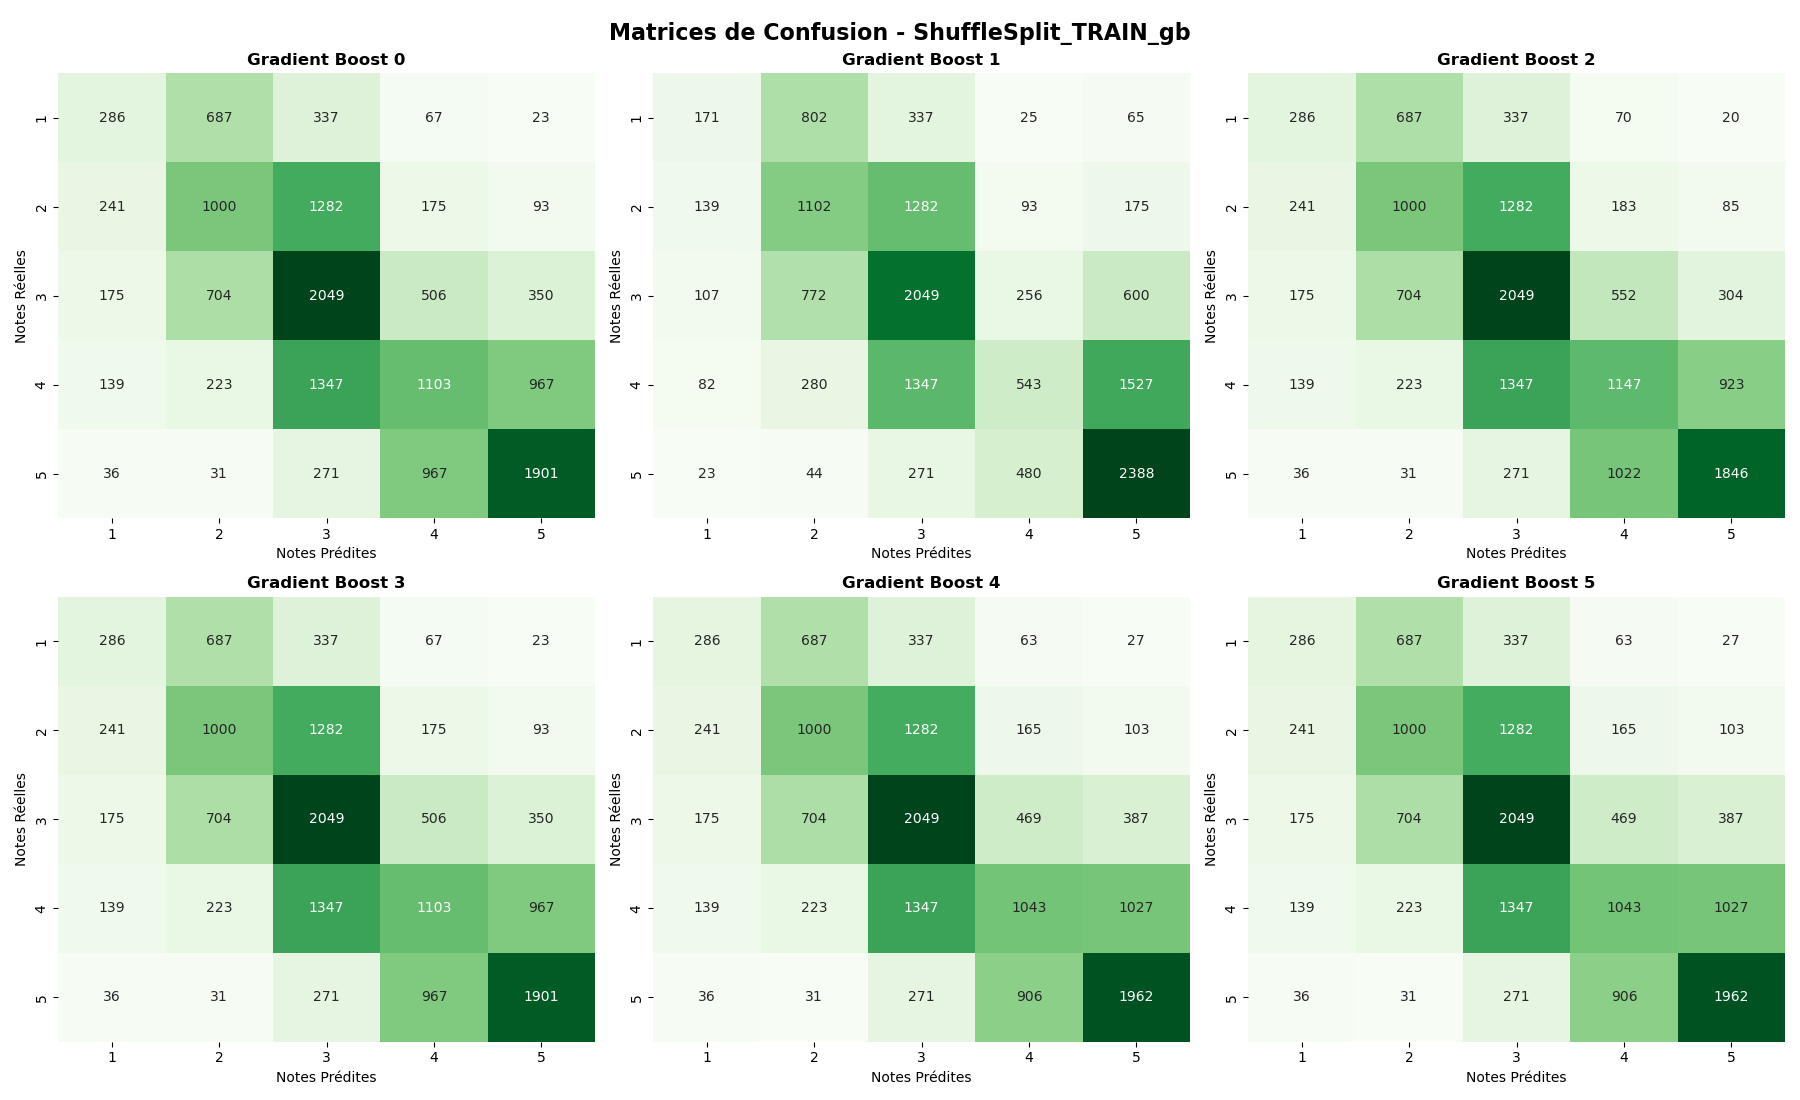
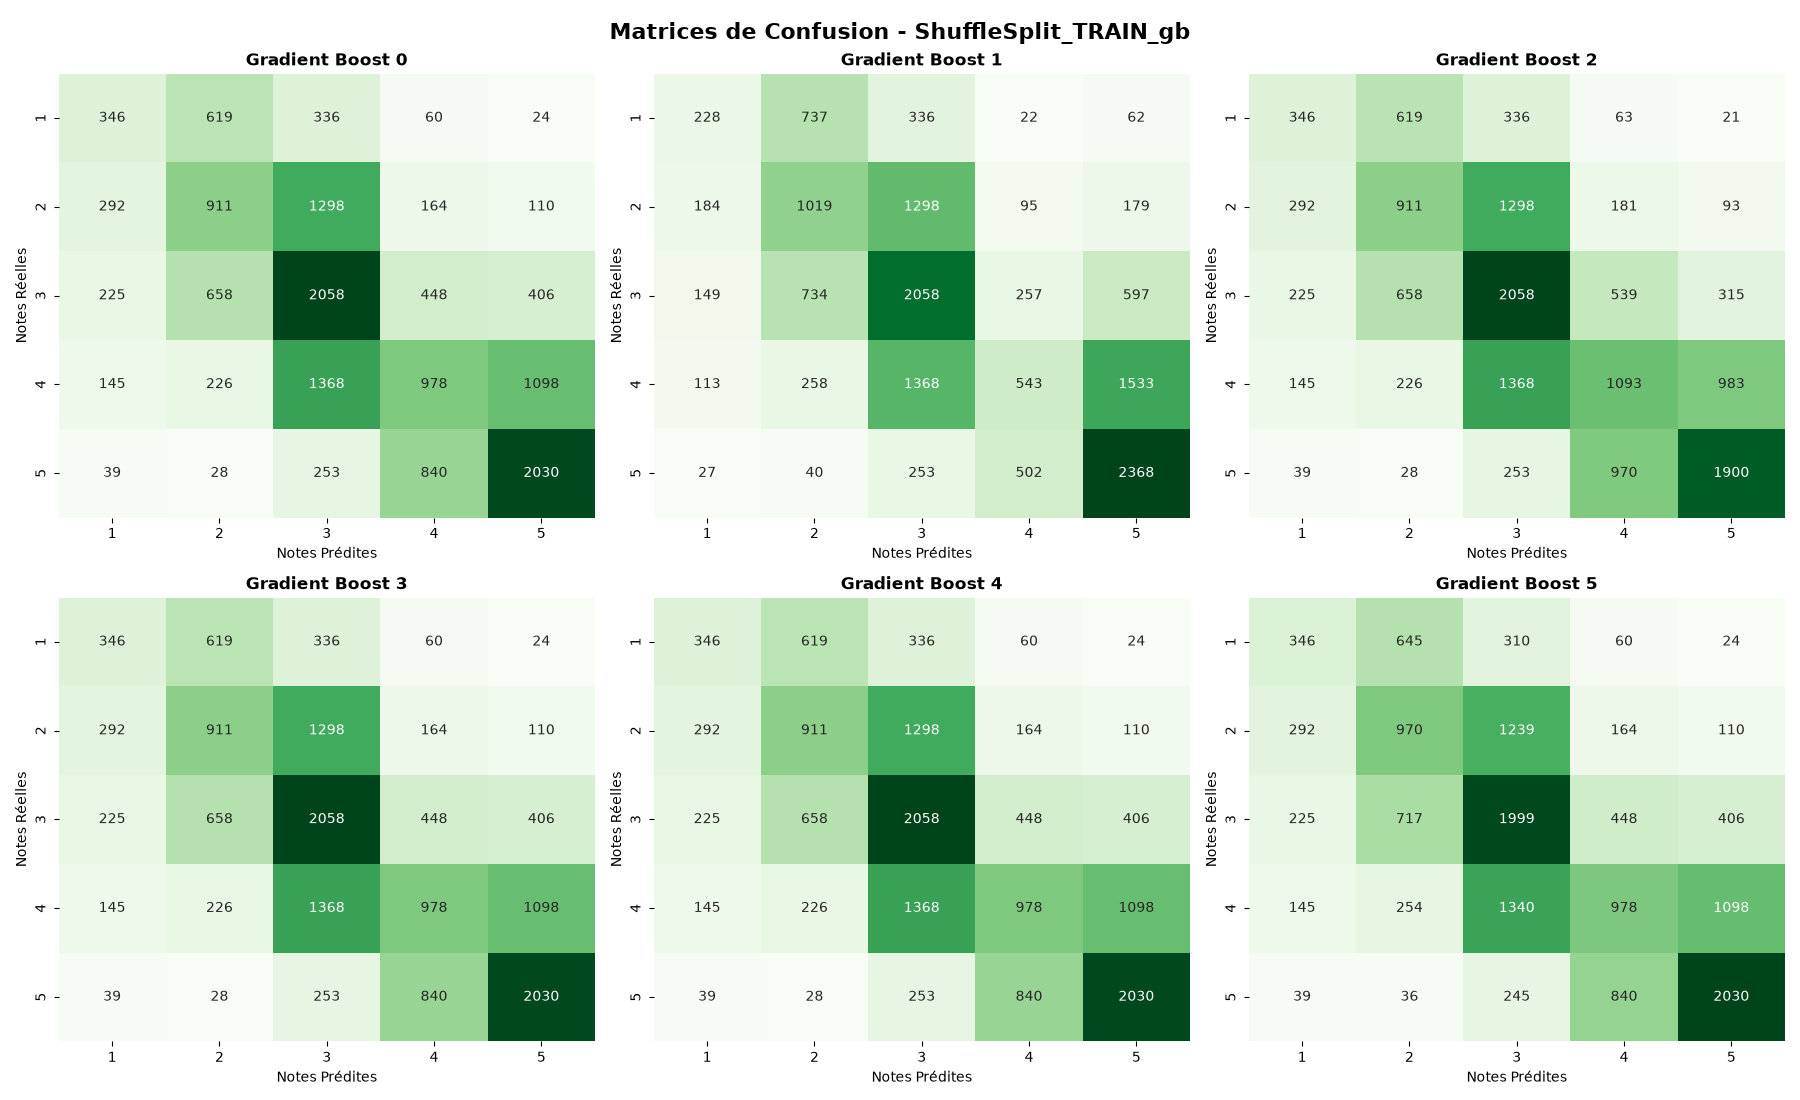
change on the GS function, remplace sufflesplit by stratifiedshuffledspilt for k-fold, run GS

diff --git a/script_benchmark.py b/script_benchmark.py
@@ -1,21 +1,23 @@
-from utils_benchmark import run_train_test, run_shufflesplit, run_loo, load_and_prepare_data, get_models, get_models_gb, plot_confusion_matrices
+from sklearn.metrics import accuracy_score, balanced_accuracy_score
+from utils_benchmark import run_train_test, run_shufflesplit, run_loo, load_and_prepare_data, get_models, get_models_gb, plot_confusion_matrices, get_metrics, optimize_gradient_boosting
 import pandas as pd
 import os
 from sklearn.ensemble import GradientBoostingClassifier, HistGradientBoostingClassifier
-from sklearn.model_selection import GridSearchCV, train_test_split
+from sklearn.model_selection import GridSearchCV, train_test_split, StratifiedKFold
 
 random_state=42
 n_splits=5
+output_dir = "outputs/model_results/benchmark"
+base_csv = "data/survey/data-base.csv"
+personnes_csv = "data/survey/data-personnes.csv"
+photos_csv = "data/survey/data-photos.csv"
 
 def main():
-    base_csv = "data/survey/data-base.csv"
-    personnes_csv = "data/survey/data-personnes.csv"
-    photos_csv = "data/survey/data-photos.csv"
+
 
     X, y = load_and_prepare_data(base_csv, personnes_csv, photos_csv)
-    models = get_models_gb()
-    name = "_gb"
-    output_dir = "outputs/model_results/benchmark"
+    models = (get_models())
+    name = ""
     os.makedirs(output_dir, exist_ok=True)
 
     # 1. TRAIN / TEST SPLIT
@@ -38,7 +40,7 @@ def main():
     plot_confusion_matrices(y_test_ss, preds_test_ss, title_suffix=f"ShuffleSplit_TEST{name}", save=True)
     print("\n")
 
-    # 3. LEAVEONE OUT (LOO)
+    # # 3. LEAVEONE OUT (LOO)
     # print("--- Benchmark : Leave-One-Out (LOO) ---")
     # df_loo, preds_train_loo, y_train_loo, preds_test_loo, y_loo = run_loo(models, X, y)
     # print(df_loo.to_string())
@@ -48,46 +50,6 @@ def main():
     # plot_confusion_matrices(y_loo, preds_test_loo, title_suffix=f"LOO_TEST{name}", save=True)
 
 
-def optimize_gradient_boosting(X, y):
-    # 1. Définition du modèle de base
-    gb = GradientBoostingClassifier(random_state=42)
-    cv = 5
-    # 2. Définition de la grille d'hyperparamètres à tester
-    param_grid = {
-        'n_estimators': [50, 100, 200, 300],
-        'learning_rate': [0.005, 0.01, 0.05, 0.1, 0.2, 0.3],
-        'max_depth': [1, 2, 3, 4, 5],
-        'min_samples_split': [2, 5, 10, 15],
-        'subsample': [0.5, 0.8, 1.0],
-        'min_samples_leaf':[1,2,3]
-    }
-
-    # 3. Choix du score à optimiser
-    scoring_metric = 'accuracy'
-
-    print("Lancement de la recherche des hyperparamètres optimaux (GridSearchCV)...")
-
-    # 4. Configuration du GridSearch (ici en 5-fold cross-validation)
-    grid_search = GridSearchCV(
-        estimator=gb,
-        param_grid=param_grid,
-        scoring=scoring_metric,
-        cv=cv,
-        n_jobs=-1,
-        verbose=1
-    )
-
-    # 5. Exécution de la recherche
-    grid_search.fit(X, y)
-
-    # 6. Affichage des résultats
-    print("\n--- Résultats de l'optimisation ---")
-    print(f"Meilleur score ({scoring_metric}) : {grid_search.best_score_:.4f}")
-    print("Meilleurs hyperparamètres trouvés :")
-    for param, value in grid_search.best_params_.items():
-        print(f"  -> {param}: {value}")
-
-    return grid_search.best_estimator_
 
 
 def main_2():
@@ -97,9 +59,46 @@ def main_2():
 
     X, y = load_and_prepare_data(base_csv, personnes_csv, photos_csv)
 
-    # Lance l'optimisation
-    best_model = optimize_gradient_boosting(X, y)
+    # param_grid = {
+    #     'learning_rate': [0.01, 0.05, 0.06, 0.07, 0.1],
+    #     'max_depth': [2, 3, 4],
+    #     'min_samples_leaf': [7, 10, 20, 50],
+    #     'n_estimators': [100, 200, 300]
+    # }
+    param_grid = {
+        'learning_rate': [0.01, 0.05, 0.1, 0.2],
+        'n_estimators': [100, 200, 300, 500],
+        'max_depth': [2, 3, 4, 5],
+        'min_samples_split': [2, 5, 10],
+        'min_samples_leaf': [1, 5, 10, 20],
+        'subsample': [0.8, 0.9, 1.0]
+    }
 
+    # Lance l'optimisation
+    best_model, best_parameter = optimize_gradient_boosting(X, y, param_grid)
+    df_best_parameters = pd.DataFrame([best_parameter])
+    print(df_best_parameters.to_string())
+    df_best_parameters.to_csv(os.path.join(output_dir, f"results_GS_best_paramter_GB.csv"))
+    # Entraine le meilleur modéle
+    X_train, X_test, y_train, y_test = train_test_split(X, y, test_size=0.2, random_state=42)
+    best_model.fit(X_train, y_train)
+    y_train_pred = best_model.predict(X_train)
+    y_test_pred = best_model.predict(X_test)
+
+    # Affichage résultats meilleur modéle
+    train_metrics = get_metrics(y_train, y_train_pred)
+    test_metrics = get_metrics(y_test, y_test_pred)
+
+    results = {}
+    results["best_model"] = {}
+    for k, v in train_metrics.items():
+        results["best_model"][f'Train {k}'] = v
+    for k, v in test_metrics.items():
+        results["best_model"][f'Test {k}'] = v
+
+    df_results = pd.DataFrame(results).T
+    df_results.to_csv(os.path.join(output_dir, f"results_GS.csv"))
+    print(df_results.to_string())
 
 if __name__ == "__main__":
-    main()
+    main_2()

diff --git a/utils_benchmark.py b/utils_benchmark.py
@@ -4,8 +4,8 @@ import os
 import seaborn as sns
 import numpy as np
 
-from sklearn.model_selection import train_test_split, ShuffleSplit, LeaveOneOut, cross_val_predict
-from sklearn.metrics import accuracy_score, mean_absolute_error, precision_score, confusion_matrix
+from sklearn.model_selection import train_test_split, ShuffleSplit, LeaveOneOut, cross_val_predict, StratifiedKFold, StratifiedShuffleSplit, GridSearchCV
+from sklearn.metrics import accuracy_score, mean_absolute_error, precision_score, confusion_matrix, balanced_accuracy_score
 from sklearn.tree import DecisionTreeClassifier
 from sklearn.ensemble import (
     GradientBoostingClassifier,
@@ -17,9 +17,11 @@ from sklearn.ensemble import (
 from utils_MCLR import load_and_preprocess_data
 
 
-def plot_confusion_matrices(y_true, dict_preds, title_suffix="", save=False):
-    fig, axes = plt.subplots(2, 3, figsize=(18, 11))
-    axes = axes.ravel()
+def plot_confusion_matrices(y_true, dict_preds, title_suffix="", save=False, nrows=2, ncols=3):
+    fig, axes = plt.subplots(nrows, ncols, figsize=(ncols*6, nrows*5.5))
+    if nrows != 1 and ncols != 1:
+        axes = axes.ravel()
+
     labels = [1, 2, 3, 4, 5]
 
     for idx, (name, y_pred) in enumerate(dict_preds.items()):
@@ -39,10 +41,10 @@ def plot_confusion_matrices(y_true, dict_preds, title_suffix="", save=False):
     else:
         plt.show()
 
-
 def get_metrics(y_true, y_pred):
     metrics = {
         'Accuracy': accuracy_score(y_true, y_pred),
+        'Balanced Accuracy': balanced_accuracy_score(y_true, y_pred),
         'MAE': mean_absolute_error(y_true, y_pred)
     }
     precision = precision_score(y_true, y_pred, average=None, labels=[1, 2, 3, 4, 5], zero_division=0)
@@ -50,12 +52,10 @@ def get_metrics(y_true, y_pred):
         metrics[f'Precision_Class_{i}'] = p
     return metrics
 
-
 def _split_data(X, y, train_idx, test_idx):
     if hasattr(X, "iloc"):
         return X.iloc[train_idx], X.iloc[test_idx], y.iloc[train_idx], y.iloc[test_idx]
     return X[train_idx], X[test_idx], y[train_idx], y[test_idx]
-
 
 def run_train_test(models, X, y, test_size=0.2, random_state=42):
     X_train, X_test, y_train, y_test = train_test_split(X, y, test_size=test_size, random_state=random_state)
@@ -82,9 +82,8 @@ def run_train_test(models, X, y, test_size=0.2, random_state=42):
 
     return pd.DataFrame(results).T, dict_preds_train, y_train, dict_preds_test, y_test
 
-
 def run_shufflesplit(models, X, y, n_splits=5, test_size=0.2, random_state=42):
-    cv = ShuffleSplit(n_splits=n_splits, test_size=test_size, random_state=random_state)
+    cv = StratifiedShuffleSplit(n_splits=n_splits, test_size=test_size, random_state=random_state)
     results = {}
     dict_preds_train = {}
     dict_preds_test = {}
@@ -122,7 +121,6 @@ def run_shufflesplit(models, X, y, n_splits=5, test_size=0.2, random_state=42):
         dict_preds_test[name] = np.array(all_test_preds)
 
     return pd.DataFrame(results).T, dict_preds_train, y_train_concat, dict_preds_test, y_test_concat
-
 
 def run_loo(models, X, y):
     cv = LeaveOneOut()
@@ -188,3 +186,44 @@ def get_models_gb():
         "Gradient Boost 4": GradientBoostingClassifier(random_state=42, max_depth=4),
         "Gradient Boost 5": GradientBoostingClassifier(random_state=42, max_depth=5)
     }
+
+def optimize_gradient_boosting(X, y, param_grid):
+    # 1. Définition du modèle de base
+    gb = GradientBoostingClassifier(random_state=42)
+    cv = StratifiedKFold(n_splits=5, shuffle=True, random_state=42)
+    # 2. Définition de la grille d'hyperparamètres à tester
+
+    # 3. Choix du score à optimiser
+    scoring_metric = 'balanced_accuracy'
+
+    print("Lancement de la recherche des hyperparamètres optimaux (GridSearchCV)...")
+
+    # 4. Configuration du GridSearch (ici en 5-fold cross-validation)
+    grid_search = GridSearchCV(
+        estimator=gb,
+        param_grid=param_grid,
+        scoring=scoring_metric,
+        cv=cv,
+        n_jobs=-1,
+        verbose=3,
+        return_train_score=True
+    )
+
+    # 5. Exécution de la recherche
+    grid_search.fit(X, y)
+
+    results_df = pd.DataFrame(grid_search.cv_results_)
+
+    cols_to_keep = ['params', 'mean_train_score', 'mean_test_score']
+    print(results_df[cols_to_keep].sort_values(by='mean_test_score', ascending=False))
+
+    # --- Affichage des meilleurs résultats ---
+    print("\n--- Résultats de l'optimisation ---")
+    print(f"Meilleur score ({scoring_metric}) : {grid_search.best_score_:.4f}")
+    print("Meilleurs hyperparamètres trouvés :", grid_search.best_params_)
+
+    best_index = grid_search.best_index_
+    print(f"\nScore Train du meilleur modèle : {results_df.loc[best_index, 'mean_train_score']:.4f}")
+    print(f"Score Test du meilleur modèle  : {results_df.loc[best_index, 'mean_test_score']:.4f}")
+
+    return grid_search.best_estimator_, grid_search.best_params_
